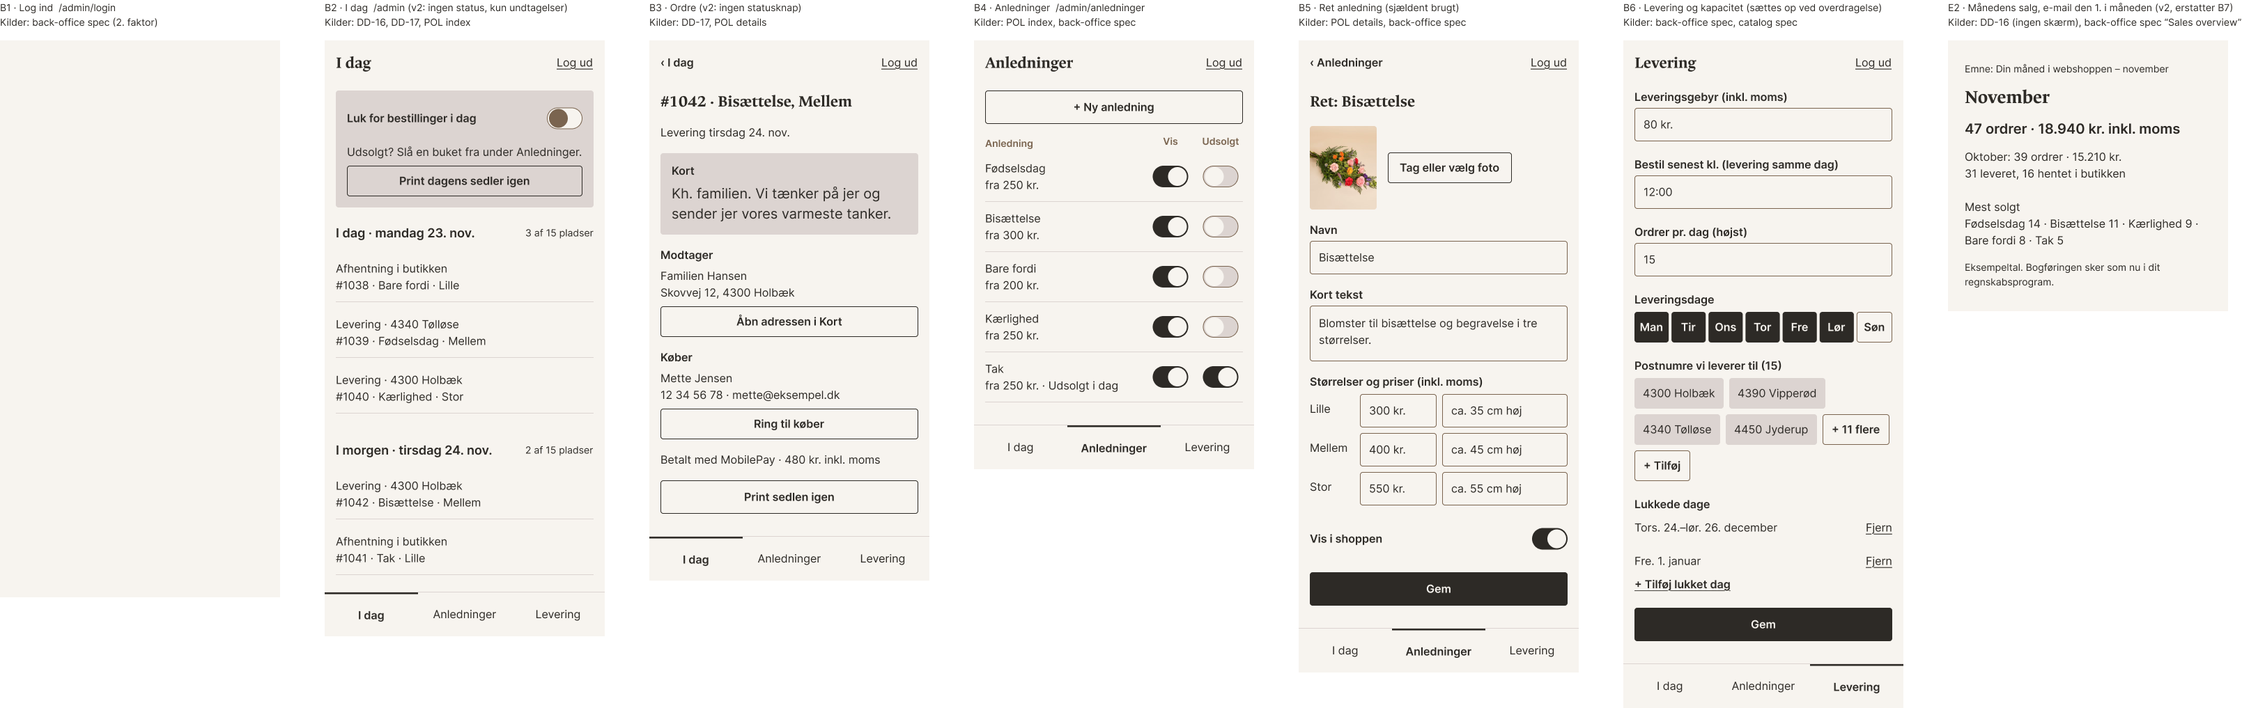
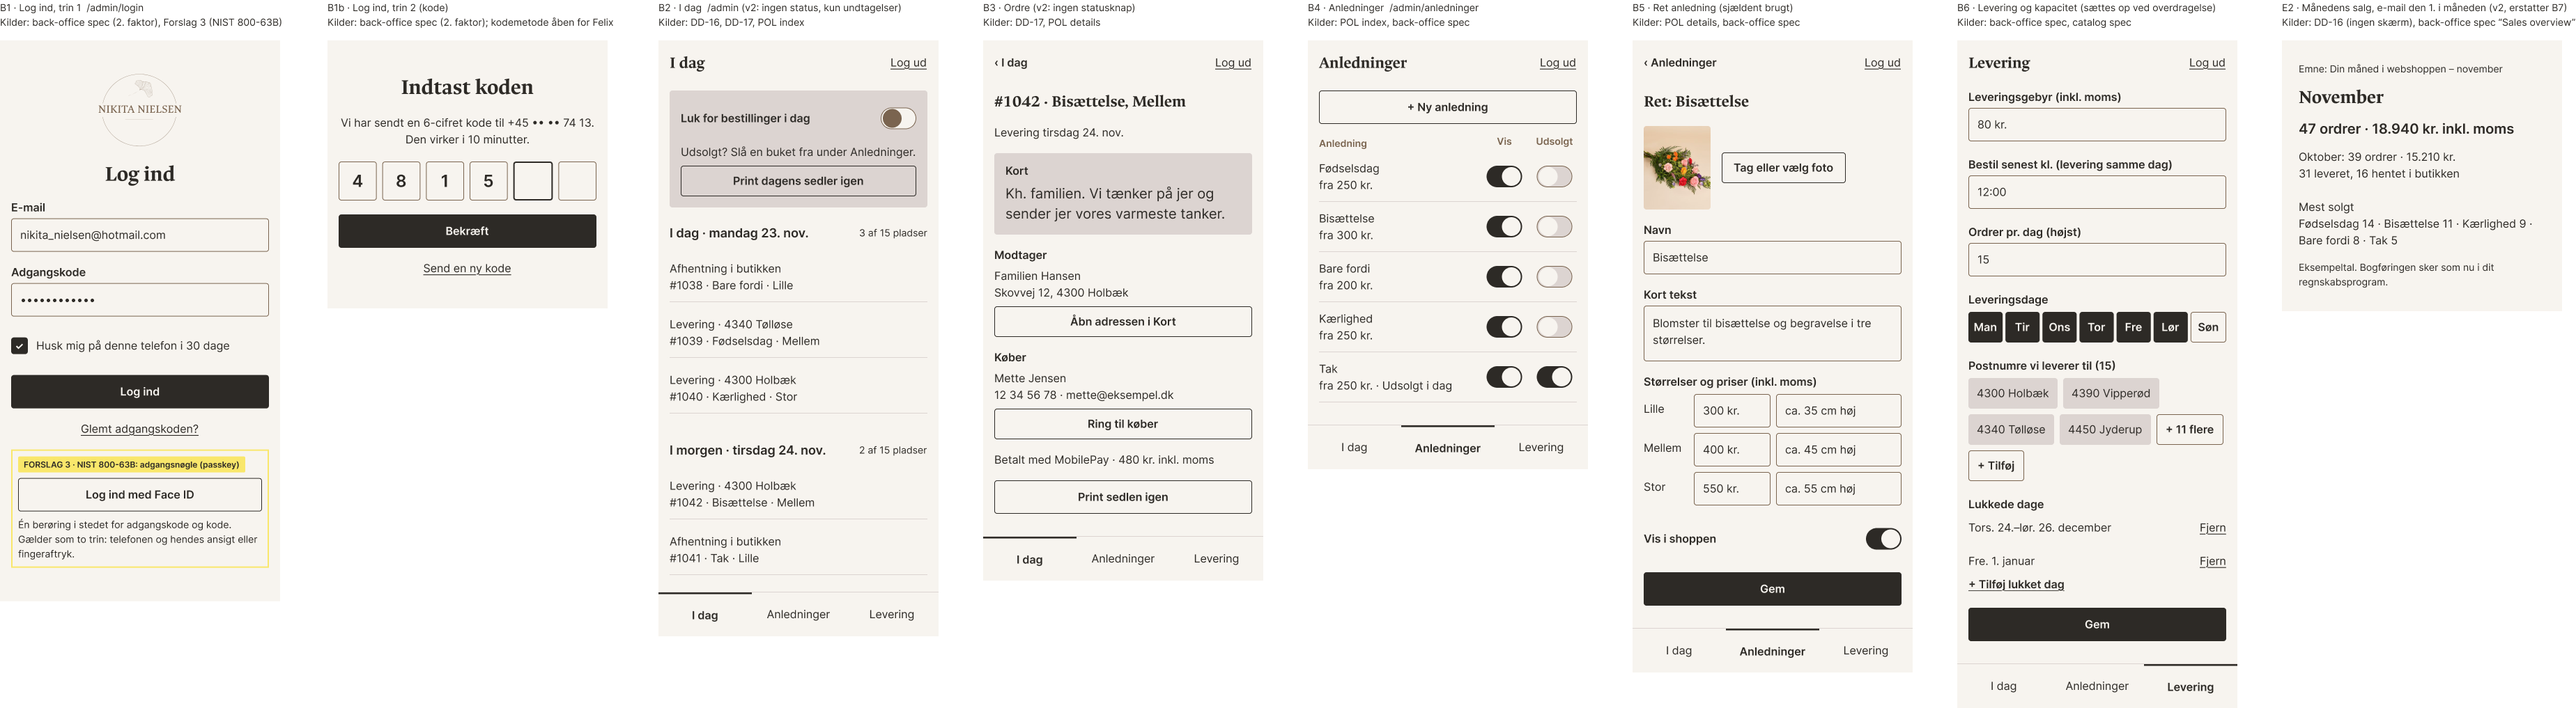
Add admin sign-in to the hi-fi v2 draft, with a passkey proposal

diff --git a/docs/process/2026-11-23-hifi-design.md b/docs/process/2026-11-23-hifi-design.md
@@ -39,3 +39,5 @@ One complete hi-fi set, from the front page to the order confirmation and the ow
 - **v2 draft (23 Nov).** Felix chose pickup slots (DD-18) and delivery during the day with not-home instructions (DD-19), and parked the question of how she drives. Built in Figma on the working page: S4c pickup slots, the checkout and confirmation changes, the order slip at 80 mm (black and white, because receipt printers print one colour), the morning sheet, the pickup reminder email, and a back office cut down to "I dag" with exceptions; sales became a monthly email. The back-office spec delta is in the change. Exported to `docs/design/hifi/draft-2026-11-23-v2/` with a table of what changed from v1 and why.
   - *Slip, repeated:* another batch timed out and finished late, putting one morning-sheet row in the wrong section. Caught in the screenshot and moved.
   - The pinboard owner questions (pickups per hour, printer, delivery round) were added to the owner interview note.
+- **Sign-in added (23 Nov).** Felix noticed B1 had only a heading. Built B1 (email, password, "Husk mig på denne telefon i 30 dage", log ind) and B1b (6-digit code, here by SMS) to meet the back-office spec's second factor. Because the owner should spend as little time on screen as possible, a passkey ("Log ind med Face ID") is drawn as Forslag 3: one touch, two factors in one (the phone and her face or finger), rated phishing-resistant by NIST SP 800-63B. The 30-day memory also cuts how often she signs in. Both are proposals for Felix.
+- **Customer accounts, asked by Felix (23 Nov).** Not added: guest checkout only is P4 and in the roadmap's out-of-scope list. Answer and reasons in the reply.

diff --git a/openspec/changes/hifi-design/design.md b/openspec/changes/hifi-design/design.md
@@ -30,6 +30,7 @@ Evidence grades as in the Design Rationale. Baymard's full guidelines are paywal
 | BM-date | Baymard, [Checkout UX best practices](https://baymard.com/research-articles/current-state-of-checkout-ux): “Delivery date” instead of “delivery speed” (48% don't) | B |
 | BM-confirm | Baymard, [Order confirmation page best practices](https://baymard.com/blog/order-confirmation-page) | B |
 | POL | Shopify Polaris, [Index table](https://polaris-react.shopify.com/components/tables/index-table) and [resource index / details templates](https://shopify.dev/docs/api/app-home/latest/patterns/templates/resource-index): a list of same-type items each opening a details page; status shown on the item; primary action on the details page | A (the design system's own documentation) |
+| NIST | NIST SP 800-63B, [Digital Identity Guidelines: Authentication](https://pages.nist.gov/800-63-4/sp800-63b.html): passkeys (syncable authenticators) as phishing-resistant multi-factor; SMS codes are a restricted authenticator | A |
 | CMP-B / CMP-I / CMP-K | Felix's competitor boards: Bloomit, Interflora, Kaj Larsen (`ref/competitor/*.pdf`) | C |
 
 ## Front page analysis (Felix's design)

diff --git a/docs/design/hifi/draft-2026-11-23-v2/README.md b/docs/design/hifi/draft-2026-11-23-v2/README.md
@@ -14,9 +14,12 @@
 | S4c (new) | Pickup had no time | Pickup in one-hour slots, full slots struck through, morning reminder | Felix: no long waiting windows (DD-18) |
 | S7 | No instructions for delivery | "Hvis modtageren ikke er hjemme" (3 choices); "Skal være fremme senest kl." for Bisættelse | DD-19 |
 | S8 | "i løbet af dagen" only | Adds the latest time and the not-home choice | DD-19 |
+| B1, B1b | Title only | Sign-in with email and password, "Husk mig i 30 dage", then a 6-digit code (B1b); Forslag 3: passkey (Face ID) instead | Back-office spec (second factor); Felix noticed B1 was missing |
 | P1, P2, E1, E2 (new) | — | Order slip, morning sheet, pickup reminder email, monthly sales email | DD-16, DD-18 |
 
 ## Open
+
+- How the owner signs in: password + SMS code (as drawn), password + authenticator app, or a passkey (Forslag 3). A passkey is one touch and counts as two factors; NIST SP 800-63B rates it highest.
 
 - Opening hours and pickups per hour are placeholders (owner questions 2 and 8).
 - Whether the owner buys a receipt printer (owner question 9).
